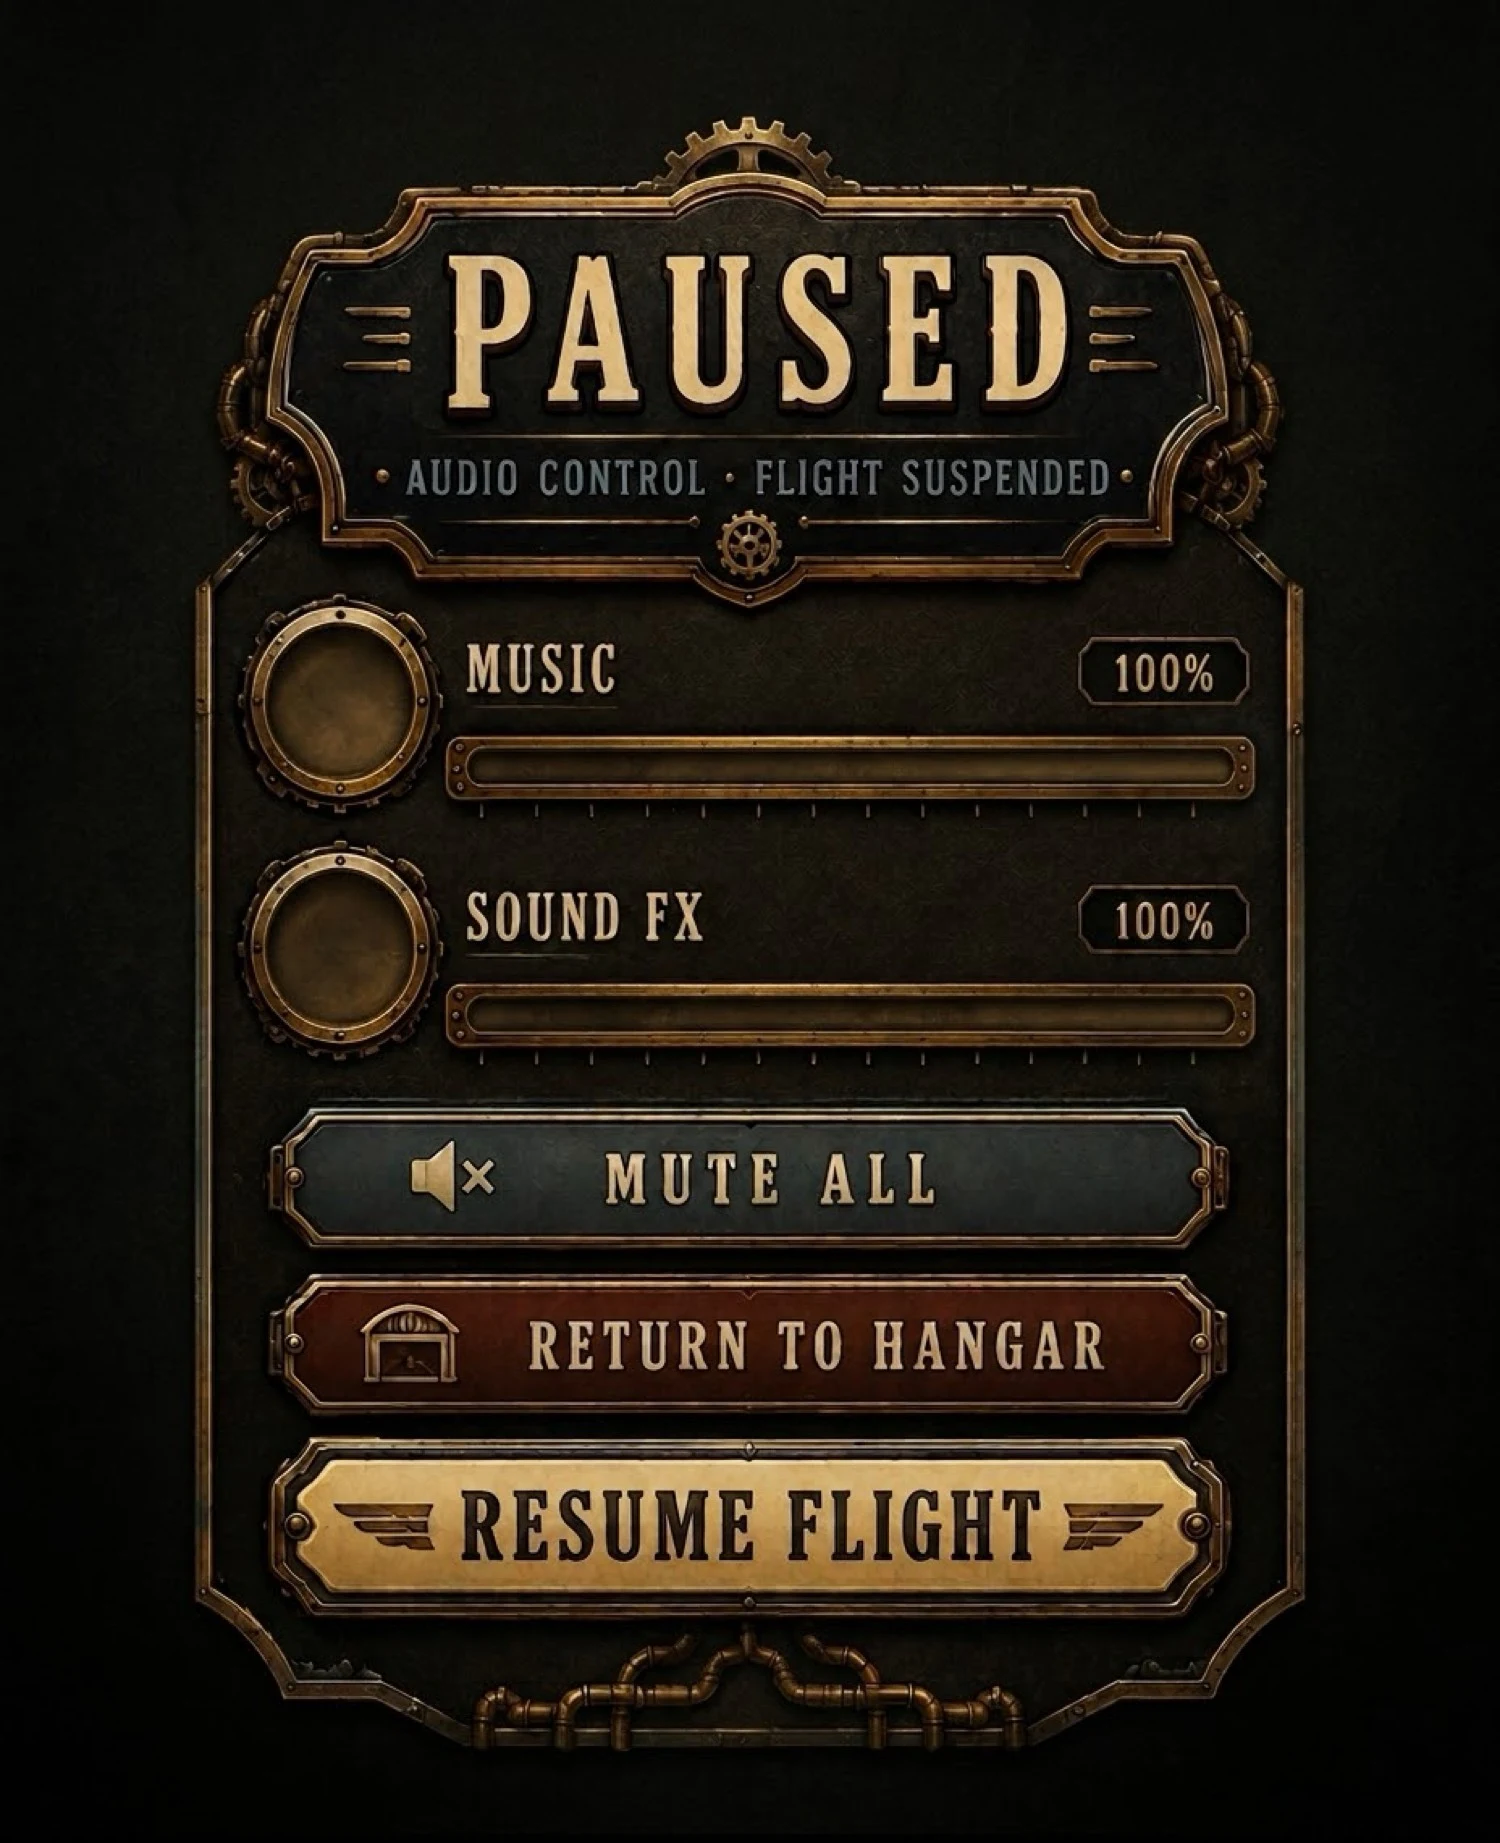
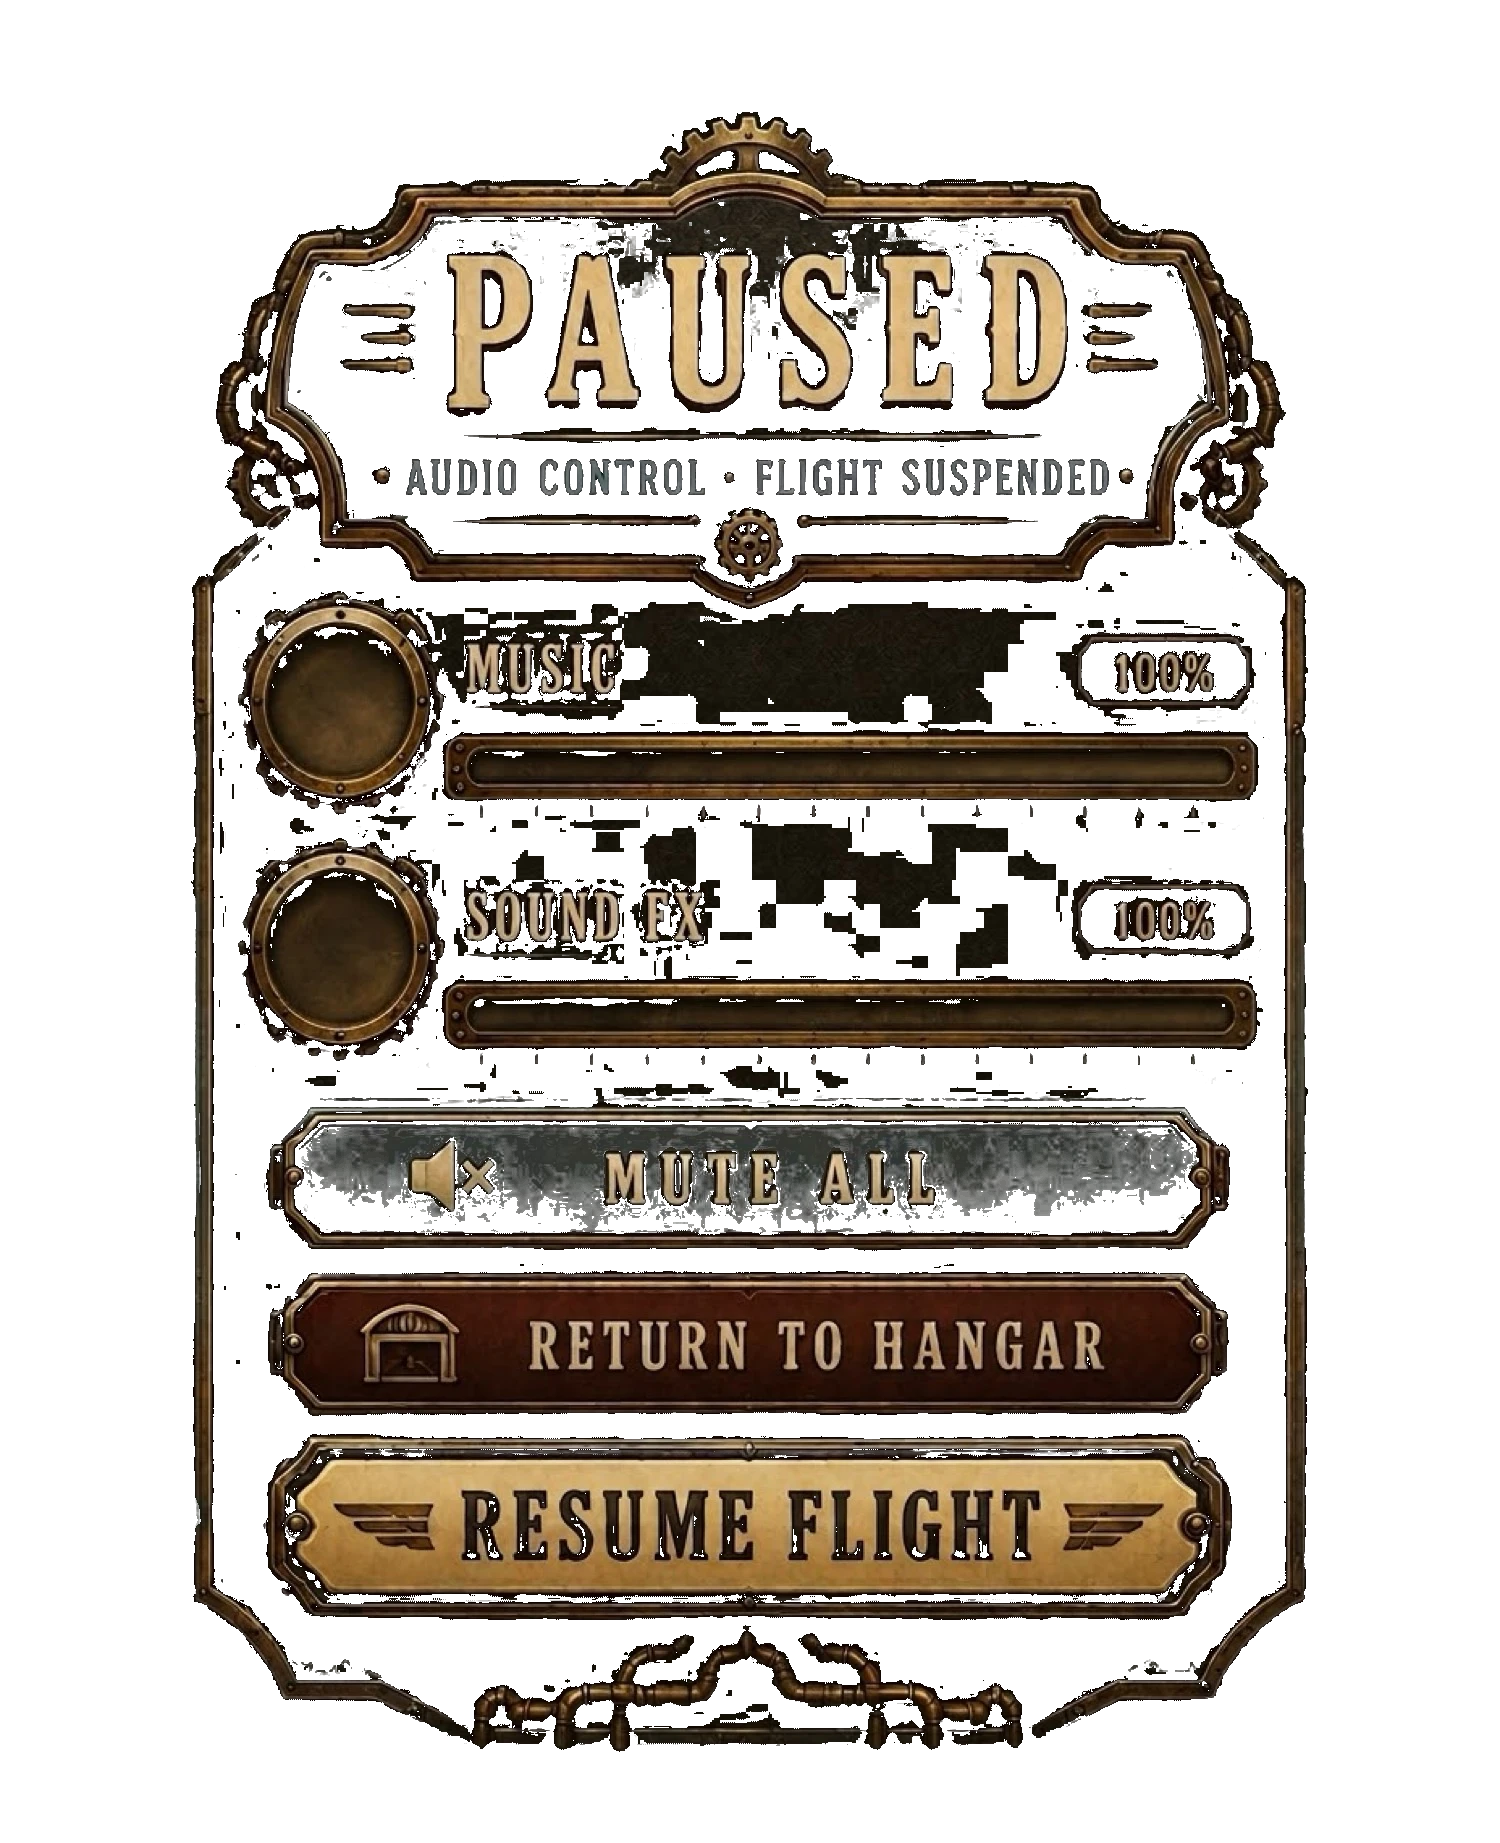
Add files via upload

diff --git a/style.css b/style.css
@@ -2656,6 +2656,8 @@ html, body {
   pointer-events: none;
   user-select: none;
   z-index: 0;
+  background: transparent !important;
+  mix-blend-mode: normal;
 }
 
 .pauseHitLayer {
@@ -3001,4 +3003,148 @@ body.pause-open #unifiedDock {
   right: auto !important;
   bottom: auto !important;
   transform: none !important;
+}
+
+
+/* ========== WORLD MAP (restored) ========== */
+#worldMapScreen {
+  display: none;
+  position: fixed !important;
+  inset: 0 !important;
+  left: 0 !important;
+  top: 0 !important;
+  right: 0 !important;
+  bottom: 0 !important;
+  width: 100% !important;
+  height: 100% !important;
+  z-index: 120 !important;
+  background: #0d0a08 !important;
+  flex-direction: column;
+  align-items: stretch;
+  justify-content: stretch;
+  margin: 0 !important;
+  padding: 0 !important;
+  opacity: 1 !important;
+  visibility: visible;
+  pointer-events: auto !important;
+}
+#worldMapScreen[style*="display: flex"],
+#worldMapScreen[style*="display:flex"] {
+  display: flex !important;
+}
+#worldMapScreen.wm-enter {
+  animation: wmFadeIn 0.55s ease-out;
+}
+@keyframes wmFadeIn {
+  from { opacity: 0; }
+  to { opacity: 1; }
+}
+.wm-chrome {
+  position: absolute;
+  top: 0; left: 0; right: 0;
+  z-index: 20;
+  pointer-events: none;
+  text-align: center;
+  padding: 10px 12px 0;
+}
+.wm-title, #worldMapTitle {
+  font-family: Georgia, "Times New Roman", serif;
+  font-weight: 700;
+  letter-spacing: 0.18em;
+  font-size: clamp(22px, 6.2vw, 34px);
+  color: #f0e0b8;
+  text-shadow: 0 2px 8px rgba(0,0,0,0.75);
+  display: block !important;
+  visibility: visible !important;
+}
+.wm-hint, #worldMapHint {
+  margin-top: 4px;
+  font-family: Georgia, serif;
+  font-size: clamp(11px, 3vw, 14px);
+  color: rgba(240, 224, 184, 0.85);
+  text-shadow: 0 1px 4px rgba(0,0,0,0.7);
+}
+#worldMapContainer {
+  position: absolute !important;
+  inset: 0 !important;
+  width: 100% !important;
+  height: 100% !important;
+  overflow: hidden !important;
+  background: #0d0a08 url("airborne_aces_map.jpg") center center / cover no-repeat !important;
+}
+.wm-player-blimp {
+  position: absolute;
+  width: 78px;
+  height: 48px;
+  transform: translate(-50%, -50%);
+  z-index: 15;
+  filter: drop-shadow(0 4px 8px rgba(0,0,0,0.55));
+  pointer-events: none;
+}
+.wm-player-blimp img {
+  width: 100%;
+  height: 100%;
+  object-fit: contain;
+  display: block;
+}
+.wm-level {
+  position: absolute !important;
+  width: 48px !important;
+  height: 48px !important;
+  border-radius: 50% !important;
+  transform: translate(-50%, -50%) !important;
+  cursor: pointer !important;
+  z-index: 10 !important;
+  border: none !important;
+  box-shadow: 0 0 0 3px #d4af37, 0 0 12px rgba(212,175,55,0.45) !important;
+  background: radial-gradient(circle at 35% 30%, rgba(255,230,160,0.35), rgba(120,80,30,0.55)) !important;
+  -webkit-tap-highlight-color: transparent;
+  transition: transform 0.15s ease, box-shadow 0.15s ease;
+  display: flex !important;
+  align-items: center !important;
+  justify-content: center !important;
+  padding: 0 !important;
+  color: #1a1208 !important;
+  font-size: 15px !important;
+}
+.wm-level:hover, .wm-level:focus {
+  transform: translate(-50%, -50%) scale(1.12) !important;
+  box-shadow: 0 0 0 4px #ffd700, 0 0 18px rgba(255,215,0,0.65) !important;
+  outline: none !important;
+}
+.wm-level.completed {
+  box-shadow: 0 0 0 3px #4caf50, 0 0 10px rgba(76,175,80,0.45) !important;
+  background: radial-gradient(circle at 35% 30%, rgba(180,255,180,0.3), rgba(30,100,40,0.5)) !important;
+}
+.wm-level.locked {
+  cursor: not-allowed !important;
+  opacity: 0.4 !important;
+  box-shadow: 0 0 0 2px #666 !important;
+  background: rgba(60,60,60,0.4) !important;
+  pointer-events: none !important;
+}
+.wm-level.current {
+  box-shadow: 0 0 0 4px #ffd700, 0 0 20px rgba(255,215,0,0.7) !important;
+  animation: wmPulse 1.6s ease-in-out infinite;
+}
+@keyframes wmPulse {
+  0%, 100% { box-shadow: 0 0 0 4px #ffd700, 0 0 16px rgba(255,215,0,0.55); }
+  50% { box-shadow: 0 0 0 5px #ffe566, 0 0 26px rgba(255,215,0,0.85); }
+}
+.wm-level-num {
+  font-family: Georgia, serif !important;
+  font-weight: 800 !important;
+  font-size: 15px !important;
+  color: #1a1208 !important;
+  text-shadow: 0 1px 0 rgba(255,255,255,0.35) !important;
+  pointer-events: none !important;
+}
+.wm-level.locked .wm-level-num {
+  color: #888 !important;
+  text-shadow: none !important;
+}
+#worldMapScreen ~ #unifiedDock {
+  display: none !important;
+  visibility: hidden !important;
+  pointer-events: none !important;
 }

diff --git a/index.html b/index.html
@@ -7,9 +7,9 @@
 <meta name="apple-mobile-web-app-status-bar-style" content="black-translucent" />
 <meta name="format-detection" content="telephone=no" />
 <title>Airborne Aces</title>
-<link rel="stylesheet" href="style.css?v=ruff261">
-<link rel="stylesheet" href="blimp-profile.css?v=ruff261">
-<link rel="stylesheet" href="launch-screens.css?v=ruff261">
+<link rel="stylesheet" href="style.css?v=ruff262">
+<link rel="stylesheet" href="blimp-profile.css?v=ruff262">
+<link rel="stylesheet" href="launch-screens.css?v=ruff262">
 <style id="otg-legacy-splash-hide">#splashScreen{visibility:hidden!important;pointer-events:none!important;}</style>
 </head>
 <body>
@@ -38,7 +38,7 @@
   <div class="otg-enter-wrap">
     <button class="otg-enter-btn" id="otg-enter-btn" type="button" aria-label="Enter Hangar">
     <span class="enterHangarShine" aria-hidden="true"></span>
-  <img class="enterHangarImg" src="enter_hangar_btn.png?v=ruff261" alt="Enter Hangar" draggable="false" />
+  <img class="enterHangarImg" src="enter_hangar_btn.png?v=ruff262" alt="Enter Hangar" draggable="false" />
   </button>
   </div>
   
@@ -107,7 +107,7 @@
   </div>
   <button class="enterHangarBtn" id="splashEnterBtn" type="button" aria-label="Enter Hangar">
   <span class="enterHangarShine" aria-hidden="true"></span>
-  <img class="enterHangarImg" src="enter_hangar_btn.png?v=ruff261" alt="Enter Hangar" draggable="false" />
+  <img class="enterHangarImg" src="enter_hangar_btn.png?v=ruff262" alt="Enter Hangar" draggable="false" />
 </button>
 </div>
 
@@ -278,7 +278,7 @@
 
 <div id="pauseOverlay" class="hidden" aria-hidden="true">
   <div class="pausePanel" role="dialog" aria-labelledby="pauseTitle">
-    <img class="pausePlateImg" src="pause_menu_plate.webp?v=ruff261" alt="" draggable="false" />
+    <img class="pausePlateImg" src="pause_menu_plate.webp?v=ruff262" alt="" draggable="false" />
     <div class="pauseHitLayer">
       <!-- visually hidden title for a11y; art shows PAUSED -->
       <h2 class="pauseTitle srOnly" id="pauseTitle">PAUSED</h2>
@@ -309,7 +309,7 @@
 </div>
 
 <div id="hudFrame">
-  <img id="hudFrameImg" crossorigin="anonymous" src="hudFrame.webp?v=ruff261" alt="" />
+  <img id="hudFrameImg" crossorigin="anonymous" src="hudFrame.webp?v=ruff262" alt="" />
 
   <div id="healthMeter">
     <img id="healthImg" crossorigin="anonymous" src="heartPickup.webp?cb=2" alt="Health" />
@@ -476,23 +476,23 @@
   </div>
 </div>
 
-<script src="assets-placeholders.js?v=ruff261"></script>
-<script src="blimp-profile.js?v=ruff261"></script>
-<script src="menu-intro.js?v=ruff261"></script>
-<script src="world-map.js?v=ruff261"></script>
-<script src="audio.js?v=ruff261"></script>
-<script src="asset-loading.js?v=ruff261"></script>
-<script src="ruff-tutorial.js?v=ruff261"></script>
-<script src="world-buildings.js?v=ruff261"></script>
-<script src="player-obstacles.js?v=ruff261"></script>
-<script src="power-fx.js?v=ruff261"></script>
-<script src="bosses.js?v=ruff261"></script>
-<script src="boss-dialogue.js?v=ruff261"></script>
-<script src="effects-combat.js?v=ruff261"></script>
-<script src="gamestate-ui.js?v=ruff261"></script>
-<script src="world-atmosphere.js?v=ruff261"></script>
-<script src="main-loop.js?v=ruff261"></script>
+<script src="assets-placeholders.js?v=ruff262"></script>
+<script src="blimp-profile.js?v=ruff262"></script>
+<script src="menu-intro.js?v=ruff262"></script>
+<script src="world-map.js?v=ruff262"></script>
+<script src="audio.js?v=ruff262"></script>
+<script src="asset-loading.js?v=ruff262"></script>
+<script src="ruff-tutorial.js?v=ruff262"></script>
+<script src="world-buildings.js?v=ruff262"></script>
+<script src="player-obstacles.js?v=ruff262"></script>
+<script src="power-fx.js?v=ruff262"></script>
+<script src="bosses.js?v=ruff262"></script>
+<script src="boss-dialogue.js?v=ruff262"></script>
+<script src="effects-combat.js?v=ruff262"></script>
+<script src="gamestate-ui.js?v=ruff262"></script>
+<script src="world-atmosphere.js?v=ruff262"></script>
+<script src="main-loop.js?v=ruff262"></script>
 
-<script src="launch-screens.js?v=ruff261"></script>
+<script src="launch-screens.js?v=ruff262"></script>
 </body>
 </html>
